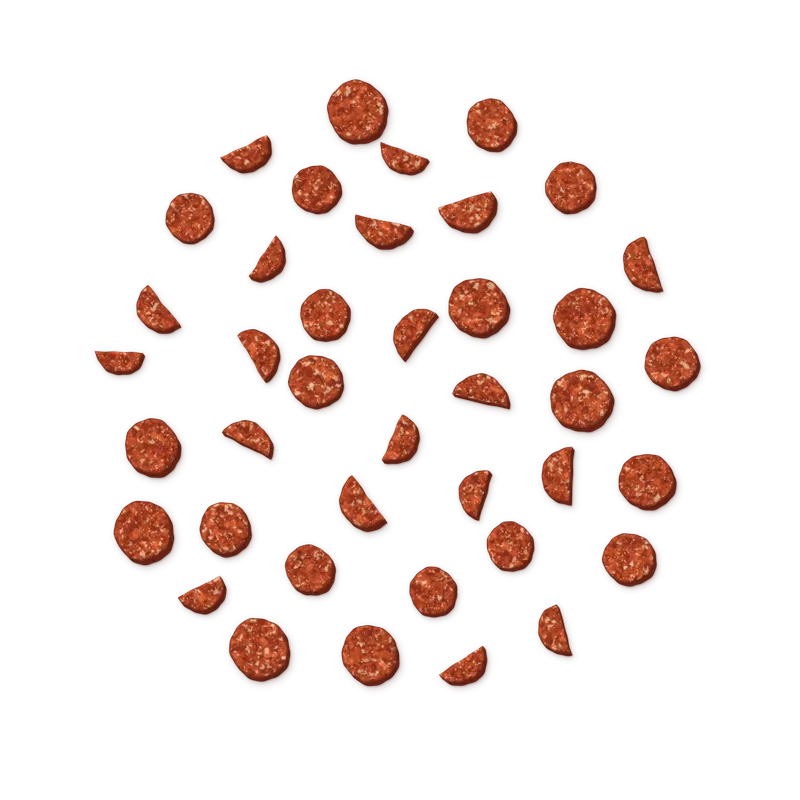
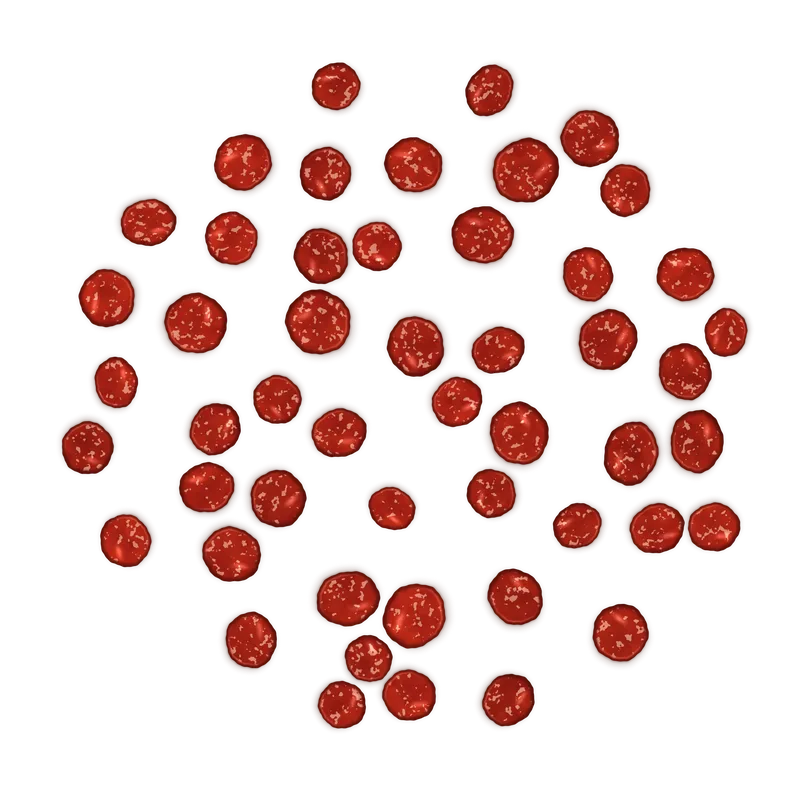
Pizza: capa nueva de pepperoni; la anterior pasa a ser la de chorizo
Claude-Session: https://claude.ai/code/session_01DxqiBbKBv4wDbq6rgi9yCV

Changed region(s): [[0.0625, 0.0625, 0.9375, 0.9375]]

diff --git a/Pages/pizza.html b/Pages/pizza.html
@@ -7,8 +7,8 @@
 <link rel="icon" href="../IMG/Logo-taz.png" type="image/png">
 <title>Pizza · TAZ Fast Food</title>
 <link href="https://fonts.googleapis.com/css2?family=Anton&family=Nunito:wght@500;700;800&display=swap" rel="stylesheet">
-<link rel="stylesheet" href="../Styles/pizza.css?v=27">
-<link rel="stylesheet" href="../Styles/checkout.css?v=27">
+<link rel="stylesheet" href="../Styles/pizza.css?v=28">
+<link rel="stylesheet" href="../Styles/checkout.css?v=28">
 </head>
 <body>
 <header class="top">
@@ -72,16 +72,16 @@
     <section class="step">
       <h3><i>1</i><span id="espTitle">Especialidad</span></h3>
       <div class="opts opts-base">
-      <button class="op" type="button" data-g="base" data-i="0" data-img="../IMG/Pizzas/hawaiana.webp?v=27" data-pz="13,19,24" data-tp="🍍 🧀 🥓" aria-pressed="false"><em>🍕</em><span class="tx"><b>Hawaiana</b><small>Piña, queso rayado, jamón (opcional cerezas)</small></span><span class="pr">$13.00</span></button>
-      <button class="op" type="button" data-g="base" data-i="1" data-img="../IMG/Pizzas/pepperoni.webp?v=27" data-pz="13,19,24" data-tp="🔴 🧀 🥓" aria-pressed="false"><em>🍕</em><span class="tx"><b>Pepperoni</b><small>Pepperoni, queso y jamón</small></span><span class="pr">$13.00</span></button>
-      <button class="op" type="button" data-g="base" data-i="2" data-img="../IMG/Pizzas/tropical.webp?v=27" data-pz="15,22,26" data-tp="🍍 🍒 🍑 🥓 🧀" aria-pressed="false"><em>🍕</em><span class="tx"><b>Tropical</b><small>Piña, cereza, durazno, jamón, queso y salsa de la casa</small></span><span class="pr">$15.00</span></button>
-      <button class="op" type="button" data-g="base" data-i="3" data-img="../IMG/Pizzas/ay-dios-mio.webp?v=27" data-pz="15,22,28" data-tp="🍗 🍄 🧀" aria-pressed="false"><em>🍕</em><span class="tx"><b>Ay Dios Mío</b><small>Pollo desmechado, champiñones, jamón, queso rayado y salsa de la casa</small></span><span class="pr">$15.00</span></button>
-      <button class="op" type="button" data-g="base" data-i="4" data-img="../IMG/Pizzas/californiana.webp?v=27" data-pz="16,24,29" data-tp="🍗 🍄 🦐 🥓 🧀 🌶" aria-pressed="false"><em>🍕</em><span class="tx"><b>Californiana</b><small>Pollo desmechado, champiñones, camarones, jamón, pimentón rojo y verde, queso rayado y salsa de la casa</small></span><span class="pr">$16.00</span></button>
-      <button class="op" type="button" data-g="base" data-i="5" data-img="../IMG/Pizzas/mexicana.webp?v=27" data-pz="16,24,29" data-tp="🥩 🥓 🧀 🌶 🧅" aria-pressed="false"><em>🍕</em><span class="tx"><b>Mexicana</b><small>Carne desmechada, jamón, queso rayado, pimentón, cebolla, salsa picosa de la casa y tocineta</small></span><span class="pr">$16.00</span></button>
-      <button class="op" type="button" data-g="base" data-i="6" data-img="../IMG/Pizzas/camarones.webp?v=27" data-pz="20,26,32" data-tp="🦐 🥓 🧀 🌶" aria-pressed="false"><em>🍕</em><span class="tx"><b>Camarones</b><small>Camarones, jamón, queso rayado, pimentón y salsa de la casa</small></span><span class="pr">$20.00</span></button>
-      <button class="op" type="button" data-g="base" data-i="7" data-img="../IMG/Pizzas/la-4k.webp?v=27" data-pz="22,28,34" data-tp="🥓 🌭 🧀 🥩" aria-pressed="false"><em>🍕</em><span class="tx"><b>La 4K</b><small>Jamón, carne de res, pollo, chorizo, tocino y queso rayado</small></span><span class="pr">$22.00</span></button>
-      <button class="op" type="button" data-g="base" data-i="8" data-img="../IMG/Pizzas/legendaria.webp?v=27" data-pz="16,22,28" data-tp="🥩 🌽 🥓 🌶 🧀" aria-pressed="false"><em>🍕</em><span class="tx"><b>Legendaria</b><small>Carne molida, maíz, tocino, pimiento, jamón, queso y salsa de la casa</small></span><span class="pr">$16.00</span></button>
-      <button class="op cartel" type="button" data-g="base" data-i="9" data-img="../IMG/Pizzas/base-queso.webp?v=27" data-pz="10,15,19" data-custom="1" aria-pressed="false"><em><i class="blank" aria-hidden="true"></i></em><span class="tx"><span class="tag">¡Nueva!</span><b>Pizza a tu gusto</b><small>Empieza con una pizza en blanco (masa y queso) y ponle todos los ingredientes que quieras.</small></span><span class="pr">$10.00</span></button>
+      <button class="op" type="button" data-g="base" data-i="0" data-img="../IMG/Pizzas/hawaiana.webp?v=28" data-pz="13,19,24" data-tp="🍍 🧀 🥓" aria-pressed="false"><em>🍕</em><span class="tx"><b>Hawaiana</b><small>Piña, queso rayado, jamón (opcional cerezas)</small></span><span class="pr">$13.00</span></button>
+      <button class="op" type="button" data-g="base" data-i="1" data-img="../IMG/Pizzas/pepperoni.webp?v=28" data-pz="13,19,24" data-tp="🔴 🧀 🥓" aria-pressed="false"><em>🍕</em><span class="tx"><b>Pepperoni</b><small>Pepperoni, queso y jamón</small></span><span class="pr">$13.00</span></button>
+      <button class="op" type="button" data-g="base" data-i="2" data-img="../IMG/Pizzas/tropical.webp?v=28" data-pz="15,22,26" data-tp="🍍 🍒 🍑 🥓 🧀" aria-pressed="false"><em>🍕</em><span class="tx"><b>Tropical</b><small>Piña, cereza, durazno, jamón, queso y salsa de la casa</small></span><span class="pr">$15.00</span></button>
+      <button class="op" type="button" data-g="base" data-i="3" data-img="../IMG/Pizzas/ay-dios-mio.webp?v=28" data-pz="15,22,28" data-tp="🍗 🍄 🧀" aria-pressed="false"><em>🍕</em><span class="tx"><b>Ay Dios Mío</b><small>Pollo desmechado, champiñones, jamón, queso rayado y salsa de la casa</small></span><span class="pr">$15.00</span></button>
+      <button class="op" type="button" data-g="base" data-i="4" data-img="../IMG/Pizzas/californiana.webp?v=28" data-pz="16,24,29" data-tp="🍗 🍄 🦐 🥓 🧀 🌶" aria-pressed="false"><em>🍕</em><span class="tx"><b>Californiana</b><small>Pollo desmechado, champiñones, camarones, jamón, pimentón rojo y verde, queso rayado y salsa de la casa</small></span><span class="pr">$16.00</span></button>
+      <button class="op" type="button" data-g="base" data-i="5" data-img="../IMG/Pizzas/mexicana.webp?v=28" data-pz="16,24,29" data-tp="🥩 🥓 🧀 🌶 🧅" aria-pressed="false"><em>🍕</em><span class="tx"><b>Mexicana</b><small>Carne desmechada, jamón, queso rayado, pimentón, cebolla, salsa picosa de la casa y tocineta</small></span><span class="pr">$16.00</span></button>
+      <button class="op" type="button" data-g="base" data-i="6" data-img="../IMG/Pizzas/camarones.webp?v=28" data-pz="20,26,32" data-tp="🦐 🥓 🧀 🌶" aria-pressed="false"><em>🍕</em><span class="tx"><b>Camarones</b><small>Camarones, jamón, queso rayado, pimentón y salsa de la casa</small></span><span class="pr">$20.00</span></button>
+      <button class="op" type="button" data-g="base" data-i="7" data-img="../IMG/Pizzas/la-4k.webp?v=28" data-pz="22,28,34" data-tp="🥓 🌭 🧀 🥩" aria-pressed="false"><em>🍕</em><span class="tx"><b>La 4K</b><small>Jamón, carne de res, pollo, chorizo, tocino y queso rayado</small></span><span class="pr">$22.00</span></button>
+      <button class="op" type="button" data-g="base" data-i="8" data-img="../IMG/Pizzas/legendaria.webp?v=28" data-pz="16,22,28" data-tp="🥩 🌽 🥓 🌶 🧀" aria-pressed="false"><em>🍕</em><span class="tx"><b>Legendaria</b><small>Carne molida, maíz, tocino, pimiento, jamón, queso y salsa de la casa</small></span><span class="pr">$16.00</span></button>
+      <button class="op cartel" type="button" data-g="base" data-i="9" data-img="../IMG/Pizzas/base-queso.webp?v=28" data-pz="10,15,19" data-custom="1" aria-pressed="false"><em><i class="blank" aria-hidden="true"></i></em><span class="tx"><span class="tag">¡Nueva!</span><b>Pizza a tu gusto</b><small>Empieza con una pizza en blanco (masa y queso) y ponle todos los ingredientes que quieras.</small></span><span class="pr">$10.00</span></button>
       </div>
     </section>
     <section class="step">
@@ -95,14 +95,14 @@
       <div class="catpanel" data-cat="pro" hidden>
         <div class="cathead"><button class="back" type="button">‹ Volver</button><b>🍗 Proteínas</b></div>
         <div class="opts opts-ex">
-          <button class="op" type="button" data-g="ex" data-i="0" data-layer="../IMG/Toppings/capas/queso.webp?v=27" data-p="2" data-cat="pro" aria-pressed="false"><em>🧀</em><span class="tx"><b>Queso extra</b></span><span class="pr">+$2.00</span></button>
-          <button class="op" type="button" data-g="ex" data-i="1" data-layer="../IMG/Toppings/capas/jamon.webp?v=27" data-p="2" data-cat="pro" aria-pressed="false"><em>🍖</em><span class="tx"><b>Jamón</b></span><span class="pr">+$2.00</span></button>
+          <button class="op" type="button" data-g="ex" data-i="0" data-layer="../IMG/Toppings/capas/queso.webp?v=28" data-p="2" data-cat="pro" aria-pressed="false"><em>🧀</em><span class="tx"><b>Queso extra</b></span><span class="pr">+$2.00</span></button>
+          <button class="op" type="button" data-g="ex" data-i="1" data-layer="../IMG/Toppings/capas/jamon.webp?v=28" data-p="2" data-cat="pro" aria-pressed="false"><em>🍖</em><span class="tx"><b>Jamón</b></span><span class="pr">+$2.00</span></button>
           <button class="op" type="button" data-g="ex" data-i="2" data-p="2" data-cat="pro" aria-pressed="false"><em>🥓</em><span class="tx"><b>Tocineta</b></span><span class="pr">+$2.00</span></button>
-          <button class="op" type="button" data-g="ex" data-i="3" data-layer="../IMG/Toppings/capas/pepperoni.webp?v=27" data-p="2" data-cat="pro" aria-pressed="false"><em>🔴</em><span class="tx"><b>Pepperoni</b></span><span class="pr">+$2.00</span></button>
-          <button class="op" type="button" data-g="ex" data-i="4" data-layer="../IMG/Toppings/capas/pollo-desmechado.webp?v=27" data-p="2.5" data-cat="pro" aria-pressed="false"><em>🍗</em><span class="tx"><b>Pollo desmechado</b></span><span class="pr">+$2.50</span></button>
+          <button class="op" type="button" data-g="ex" data-i="3" data-layer="../IMG/Toppings/capas/pepperoni.webp?v=28" data-p="2" data-cat="pro" aria-pressed="false"><em>🔴</em><span class="tx"><b>Pepperoni</b></span><span class="pr">+$2.00</span></button>
+          <button class="op" type="button" data-g="ex" data-i="4" data-layer="../IMG/Toppings/capas/pollo-desmechado.webp?v=28" data-p="2.5" data-cat="pro" aria-pressed="false"><em>🍗</em><span class="tx"><b>Pollo desmechado</b></span><span class="pr">+$2.50</span></button>
           <button class="op" type="button" data-g="ex" data-i="5" data-p="2.5" data-cat="pro" aria-pressed="false"><em>🥩</em><span class="tx"><b>Carne desmechada</b></span><span class="pr">+$2.50</span></button>
-          <button class="op" type="button" data-g="ex" data-i="6" data-layer="../IMG/Toppings/capas/carne-molida.webp?v=27" data-p="2.5" data-cat="pro" aria-pressed="false"><em>🧆</em><span class="tx"><b>Carne molida</b></span><span class="pr">+$2.50</span></button>
-          <button class="op" type="button" data-g="ex" data-i="7" data-p="2" data-cat="pro" aria-pressed="false"><em><img class="ic" src="../IMG/Toppings/chorizo.webp?v=27" alt=""></em><span class="tx"><b>Chorizo</b></span><span class="pr">+$2.00</span></button>
+          <button class="op" type="button" data-g="ex" data-i="6" data-layer="../IMG/Toppings/capas/carne-molida.webp?v=28" data-p="2.5" data-cat="pro" aria-pressed="false"><em>🧆</em><span class="tx"><b>Carne molida</b></span><span class="pr">+$2.50</span></button>
+          <button class="op" type="button" data-g="ex" data-i="7" data-layer="../IMG/Toppings/capas/chorizo.webp?v=28" data-p="2" data-cat="pro" aria-pressed="false"><em><img class="ic" src="../IMG/Toppings/chorizo.webp?v=28" alt=""></em><span class="tx"><b>Chorizo</b></span><span class="pr">+$2.00</span></button>
           <button class="op" type="button" data-g="ex" data-i="8" data-p="3.5" data-cat="pro" aria-pressed="false"><em>🦐</em><span class="tx"><b>Camarones</b></span><span class="pr">+$3.50</span></button>
         </div>
       </div>
@@ -150,9 +150,9 @@
 </aside>
 <template id="tpl-item"><div class="it"><div class="row"><b class="nm"></b><span class="pt"></span></div><p class="ln"></p><div class="row"><div class="qty"><button data-c="-1" aria-label="Menos">−</button><span class="qn"></span><button data-c="1" aria-label="Más">+</button></div><button class="x" data-c="del">Quitar</button></div></div></template>
 <div class="toast" id="toast" role="status">Agregado al carrito</div>
-<script src="../JS/cart.js?v=27"></script>
-<script src="../JS/pizza.js?v=27"></script>
-<script src="../JS/toppings.js?v=27"></script>
-<script src="../JS/checkout.js?v=27"></script>
+<script src="../JS/cart.js?v=28"></script>
+<script src="../JS/pizza.js?v=28"></script>
+<script src="../JS/toppings.js?v=28"></script>
+<script src="../JS/checkout.js?v=28"></script>
 </body>
 </html>
